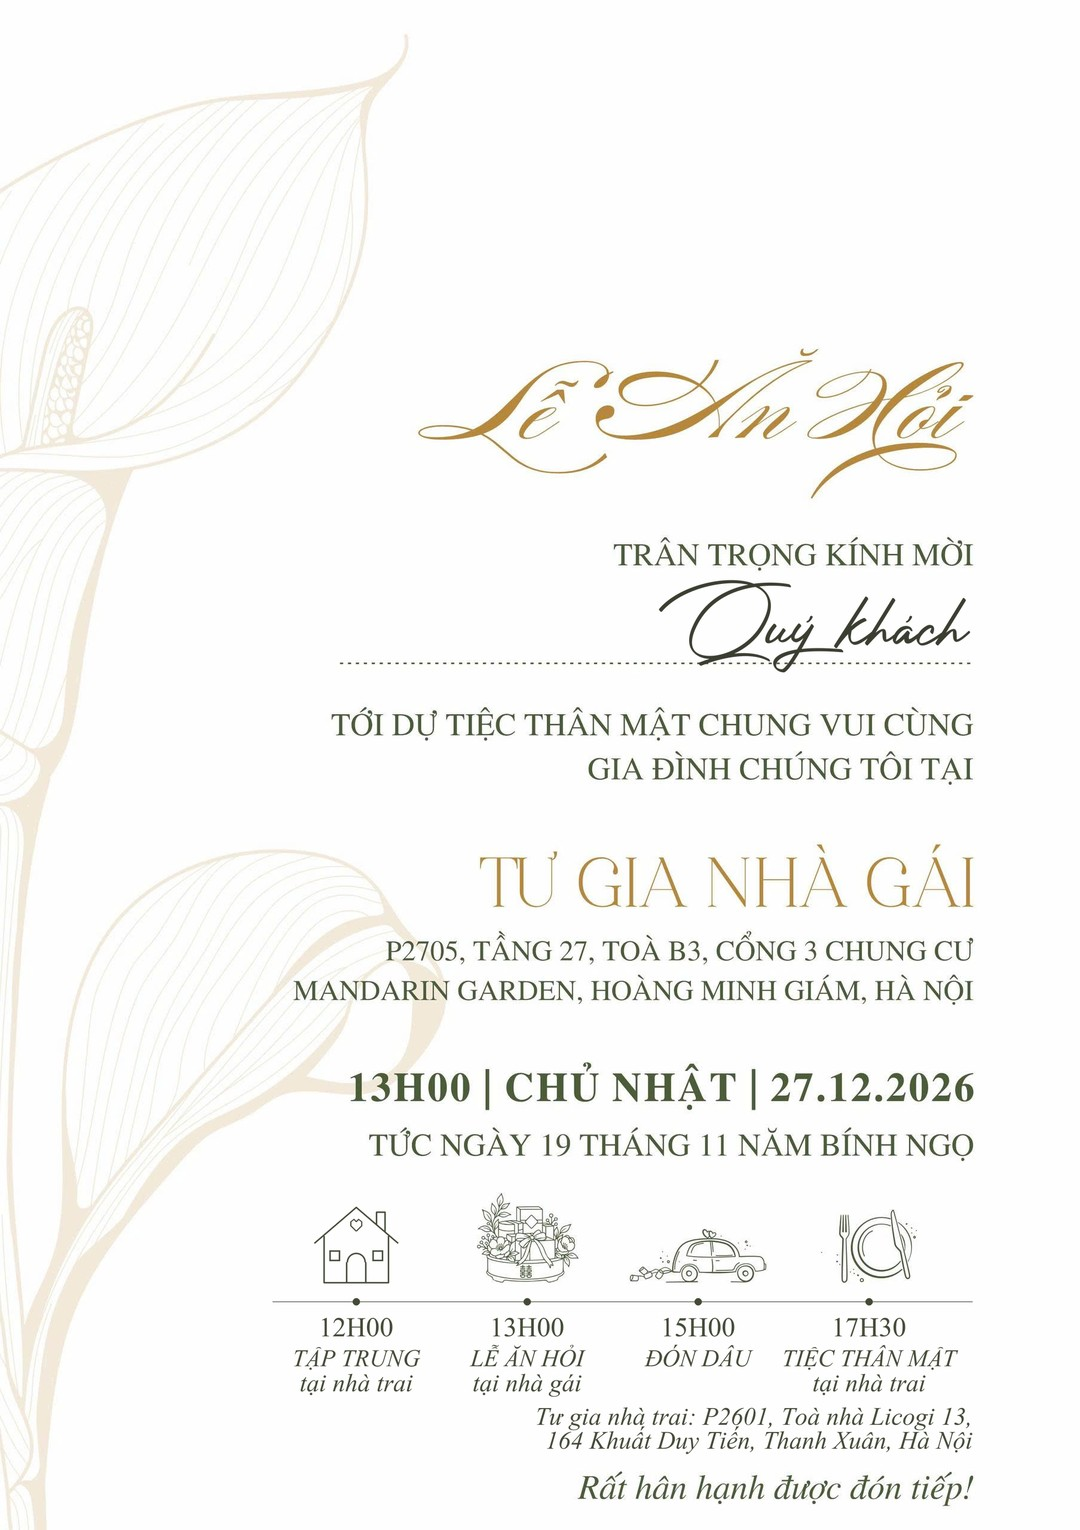
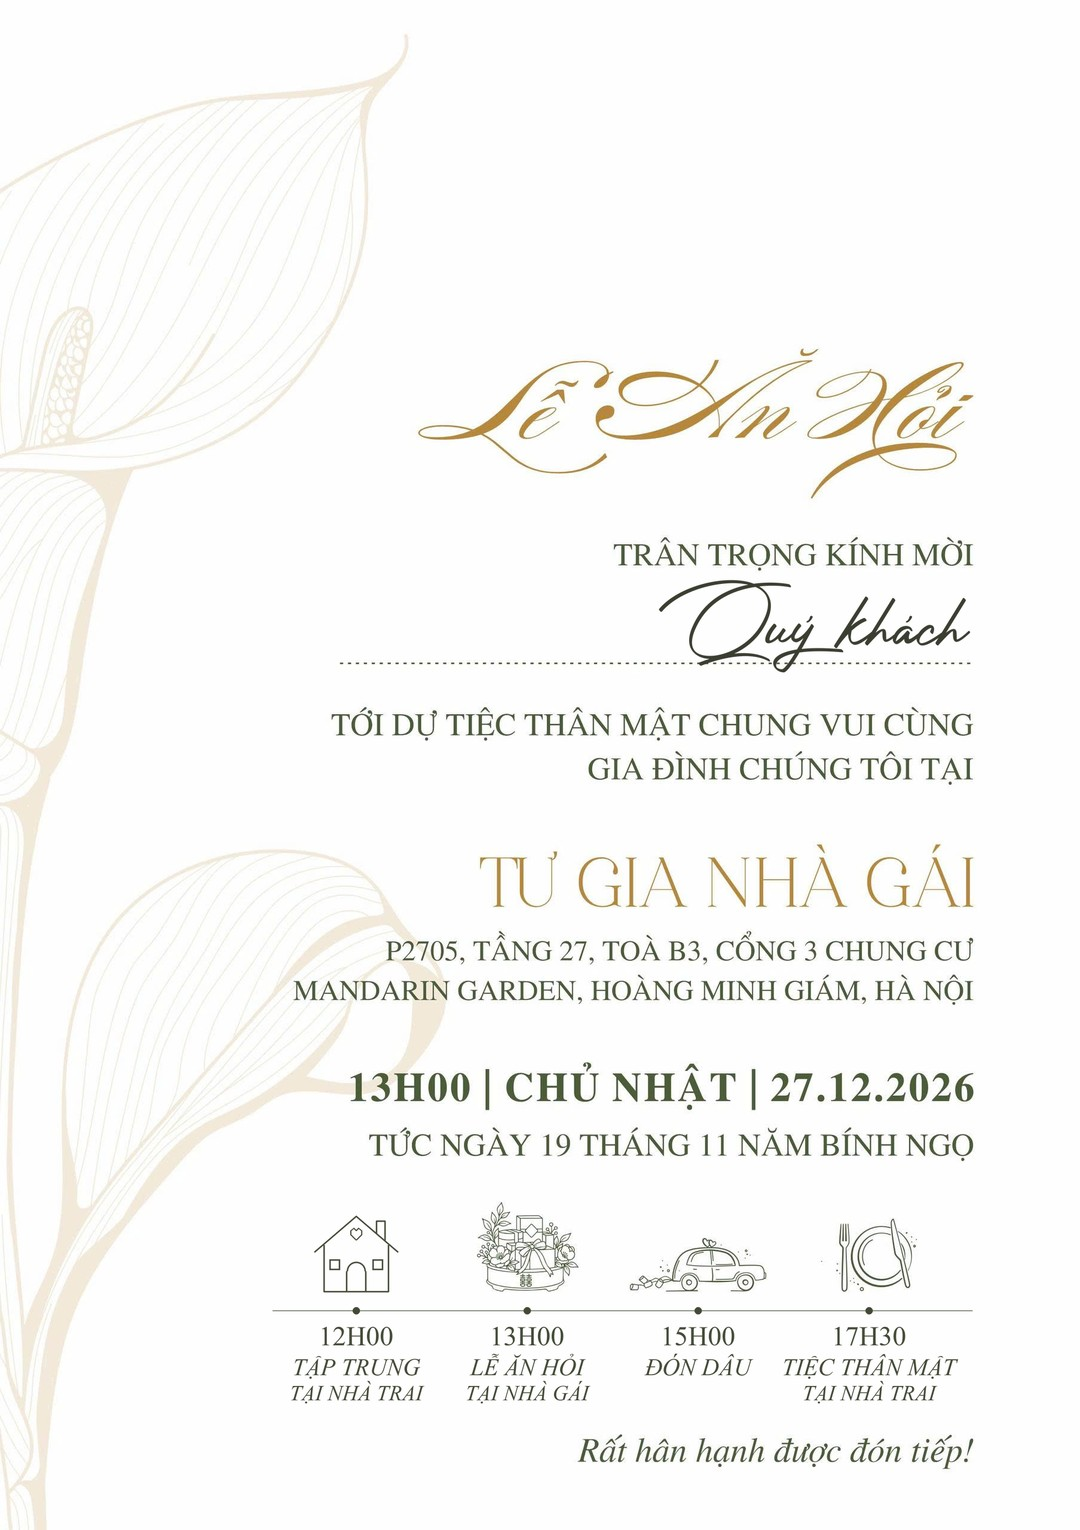
Thiệp ăn hỏi: bỏ dòng địa chỉ, chữ TẠI NHÀ TRAI viết hoa và có ô bấm nhấp nháy mở pop up địa chỉ nhà trai

Changed region(s): [[0.4278, 0.768, 0.9167, 0.983], [0.275, 0.7987, 0.3972, 0.9216]]

diff --git a/script.js b/script.js
@@ -45,6 +45,46 @@
     return d;
   }
 
+  /* ---------- Pop up địa chỉ (mở khi chạm ô bấm trên ảnh thiệp) ---------- */
+  var popDc = null, popNutMo = null;
+  function dongPopDiaChi() {
+    popDc.hidden = true;
+    document.body.classList.remove("khoa-cuon");
+    if (popNutMo) popNutMo.focus({ preventScroll: true });
+  }
+  function moPopDiaChi(o, nut) {
+    if (!popDc) {
+      popDc = document.createElement("div");
+      popDc.className = "pop-dc";
+      popDc.hidden = true;
+      popDc.setAttribute("role", "dialog");
+      popDc.setAttribute("aria-modal", "true");
+      popDc.innerHTML = '<div class="pop-the"><button type="button" class="pop-dong" aria-label="Đóng">&times;</button>' +
+        '<p class="chu-nho pop-nhan"></p><p class="pop-ten"></p><div class="pop-dia-chi"></div><p class="pop-ghi-chu"></p></div>';
+      document.body.appendChild(popDc);
+      popDc.addEventListener("click", function (e) { if (e.target === popDc) dongPopDiaChi(); });
+      popDc.querySelector(".pop-dong").addEventListener("click", dongPopDiaChi);
+      document.addEventListener("keydown", function (e) { if (!popDc.hidden && e.key === "Escape") dongPopDiaChi(); });
+    }
+    popDc.setAttribute("aria-label", o.tieuDe || "");
+    popDc.querySelector(".pop-nhan").textContent = o.nhan || "";
+    popDc.querySelector(".pop-ten").textContent = o.tieuDe || "";
+    var dc = popDc.querySelector(".pop-dia-chi");
+    dc.textContent = "";
+    (o.diaChi || []).forEach(function (dong) {
+      var p = document.createElement("p");
+      p.textContent = dong;
+      dc.appendChild(p);
+    });
+    popDc.querySelector(".pop-ghi-chu").textContent = o.ghiChu || "";
+    popNutMo = nut;
+    popDc.hidden = false;
+    document.body.classList.add("khoa-cuon");
+    popDc.querySelector(".pop-dong").focus();
+    // khách đã chạm rồi thì các ô bấm thôi nhấp nháy
+    document.querySelectorAll(".o-bam").forEach(function (b) { b.classList.add("da-bam"); });
+  }
+
   /* ---------- 1. Khung thiệp ---------- */
   var dsKhung = $("ds-khung");
   (C.thiep || []).forEach(function (src, i) {
@@ -60,8 +100,32 @@
     var img = new Image();
     img.alt = "Thiệp cưới – trang " + (i + 1);
     var lanThu = 0;
+    var oBam = (C.oBamThiep || []).filter(function (o) { return o.anh === src; });
     img.onload = function () {
-      khung.replaceChild(img, trong);
+      var hien = img;
+      if (oBam.length) {   // ảnh có ô bấm (chữ "TẠI NHÀ TRAI"): bọc ảnh lại để đặt ô bấm lên đúng chỗ
+        hien = document.createElement("div");
+        hien.className = "anh-boc";
+        hien.appendChild(img);
+        oBam.forEach(function (o) {
+          o.vung.forEach(function (v) {
+            var b = document.createElement("button");
+            b.type = "button";
+            b.className = "o-bam";
+            b.setAttribute("aria-label", (o.tieuDe || "") + " – xem địa chỉ");
+            b.style.left = v[0] + "%";
+            b.style.top = v[1] + "%";
+            b.style.width = v[2] + "%";
+            b.style.height = v[3] + "%";
+            b.addEventListener("click", function (e) {
+              e.stopPropagation();
+              moPopDiaChi(o, b);
+            });
+            hien.appendChild(b);
+          });
+        });
+      }
+      khung.replaceChild(hien, trong);
       img.addEventListener("click", function () {
         var ds = Array.prototype.map.call(dsKhung.querySelectorAll("img"), function (x) { return x.src; });
         moAnh(ds, ds.indexOf(img.src));

diff --git a/style.css b/style.css
@@ -161,6 +161,88 @@ body {
   padding: 0 24px;
 }
 
+/* Ô bấm trên ảnh thiệp (chữ "TẠI NHÀ TRAI"): viền vàng, toả sáng nhịp nhàng để khách chú ý và chạm vào */
+.anh-boc { position: relative; }
+.o-bam {
+  position: absolute;
+  margin: 0;
+  padding: 0;
+  background: rgba(201, 162, 75, .14);
+  border: 1.5px solid rgba(201, 162, 75, .9);
+  border-radius: 999px;
+  cursor: pointer;
+  -webkit-tap-highlight-color: transparent;
+  animation: o-bam-sang 1.6s ease-out infinite;
+}
+.o-bam::before {            /* nới rộng vùng chạm cho dễ bấm trên điện thoại */
+  content: "";
+  position: absolute;
+  inset: -12px -8px;
+}
+.o-bam.da-bam {
+  animation: none;
+  background: transparent;
+  border-color: rgba(201, 162, 75, .5);
+}
+.o-bam:focus-visible { outline: 2px solid var(--vang-dam); outline-offset: 3px; }
+@keyframes o-bam-sang {
+  0%   { box-shadow: 0 0 0 0 rgba(201, 162, 75, .65); background-color: rgba(201, 162, 75, .24); }
+  70%  { box-shadow: 0 0 0 11px rgba(201, 162, 75, 0); background-color: rgba(201, 162, 75, .08); }
+  100% { box-shadow: 0 0 0 0 rgba(201, 162, 75, 0); background-color: rgba(201, 162, 75, .14); }
+}
+@media (prefers-reduced-motion: reduce) { .o-bam { animation: none; } }
+
+/* Pop up địa chỉ */
+.pop-dc {
+  position: fixed;
+  inset: 0;
+  z-index: 12;
+  display: grid;
+  place-items: center;
+  padding: 20px;
+  background: rgba(38, 42, 26, .55);
+}
+.pop-dc[hidden] { display: none; }
+.pop-the {
+  position: relative;
+  width: min(100%, 360px);
+  padding: 30px 22px 24px;
+  text-align: center;
+  color: var(--reu-dam);
+  background: var(--kem);
+  border: 1px solid var(--reu-nhat);
+  box-shadow: 0 18px 40px rgba(38, 42, 26, .3);
+  animation: pop-vao .28s ease-out;
+}
+@keyframes pop-vao { from { opacity: 0; transform: translateY(10px) scale(.97); } }
+@media (prefers-reduced-motion: reduce) { .pop-the { animation: none; } }
+.pop-dong {
+  position: absolute;
+  top: 4px;
+  right: 6px;
+  width: 42px;
+  height: 42px;
+  padding: 0 0 4px;
+  border: 0;
+  background: none;
+  font: 400 32px/1 "Cormorant Garamond", serif;
+  color: var(--reu);
+  cursor: pointer;
+}
+.pop-nhan { color: var(--vang-dam); }
+.pop-ten { margin: 10px 0 6px; font-size: 27px; font-weight: 600; line-height: 1.2; }
+.pop-dia-chi p { margin: 0; font-size: 19px; line-height: 1.4; }
+.pop-ghi-chu {
+  margin: 16px auto 0;
+  max-width: 26em;
+  font-size: 17px;
+  font-style: italic;
+  line-height: 1.45;
+  color: var(--reu);
+  text-wrap: balance;
+}
+.pop-ghi-chu:empty { display: none; }
+
 /* ---------- 2. Địa điểm ---------- */
 .the {
   padding: 24px 16px 22px;

diff --git a/config.js b/config.js
@@ -40,6 +40,20 @@ window.THIEP = {
     "images/thiep/2.jpg",   // chương trình tiệc cưới (mặt trước thiệp giấy, đã bỏ mã QR và lề trống)
   ],
 
+  // 1b) Ô BẤM TRÊN ẢNH THIỆP: chữ "TẠI NHÀ TRAI" trên thiệp ăn hỏi có viền vàng nhấp nháy, chạm vào mở pop up
+  //     địa chỉ nhà trai. vung: [trái %, trên %, rộng %, cao %] trên ảnh, in ra ở cuối cong-cu/tao_thiep_phu.py
+  //     (chạy lại script thì chép lại số mới vào đây).
+  oBamThiep: [
+    {
+      anh: "images/thiep/an-hoi.jpg",
+      vung: [[25.6, 89.64, 14.92, 2.64], [73.09, 89.64, 14.92, 2.64]],
+      nhan: "Địa chỉ",
+      tieuDe: "Tư gia nhà trai",
+      diaChi: ["P2601, Toà nhà Licogi 13", "164 Khuất Duy Tiến, Thanh Xuân, Hà Nội"],
+      ghiChu: "Quý khách tập trung tại đây lúc 12H00 để cùng đoàn nhà trai sang nhà gái làm lễ ăn hỏi, sau đó trở về dự tiệc thân mật lúc 17H30.",
+    },
+  ],
+
   // 2) ĐỊA ĐIỂM
   diaDiem: {
     thoiGian: "",   // dòng giờ ngày phía trên tên khách sạn (để "" thì không hiện)

diff --git a/cong-cu/tao_thiep_phu.py b/cong-cu/tao_thiep_phu.py
@@ -2,8 +2,8 @@
 
 - viết "Quý khách" (phông chữ ký Photograph Signature, cùng kiểu mặt lời mời 1.jpg) lên dòng chấm, căn phải;
 - cho khách nhà trai: giữ mặt thiệp như bản in, đổi hàng biểu tượng thành timeline 4 mốc (12H00 tập trung tại
-  nhà trai · 13H00 lễ ăn hỏi tại nhà gái · 15H00 đón dâu · 17H30 tiệc thân mật tại nhà trai) và thêm một dòng
-  địa chỉ nhà trai. (Bản đổi hẳn "TƯ GIA NHÀ TRAI" trên mặt thiệp vẫn còn trong script: DOI_NOI_TIEC.)
+  nhà trai · 13H00 lễ ăn hỏi tại nhà gái · 15H00 đón dâu · 17H30 tiệc thân mật tại nhà trai). Chữ "TẠI NHÀ TRAI"
+  trên trang web có ô bấm mở pop up địa chỉ nhà trai (vị trí ô in ra cuối script, chép vào config.js). (Bản đổi hẳn "TƯ GIA NHÀ TRAI" trên mặt thiệp vẫn còn trong script: DOI_NOI_TIEC.)
 (Bản có vows: các mốc lễ vows gộp vào tờ chương trình, xem cong-cu/tao_chuong_trinh_doc.py nếu có.)
 
 Phông cần trên máy (không đưa lên GitHub): phong-chu/PhotographSignature.otf, phong-chu/noto-serif-display/;
@@ -206,9 +206,10 @@ def ve_nha(rong=150):
 
 
 TAM = [596, 882, 1168, 1454]                 # tâm 4 cột, cột cuối giữ đúng chỗ cũ (lề phải chữ TIỆC THÂN MẬT)
-DAY_BT, Y_KE = 2145, 2178                    # chân các biểu tượng, hàng đường kẻ
-MOC = [("12H00", "TẬP TRUNG", "tại nhà trai", None), ("13H00", "LỄ ĂN HỎI", "tại nhà gái", "trap"),
-       ("15H00", "ĐÓN DÂU", "", "xe"), ("17H30", "TIỆC THÂN MẬT", "tại nhà trai", "dia")]
+DAY_BT, Y_KE = 2160, 2193                    # chân các biểu tượng, hàng đường kẻ
+MOC = [("12H00", "TẬP TRUNG", "TẠI NHÀ TRAI", None), ("13H00", "LỄ ĂN HỎI", "TẠI NHÀ GÁI", "trap"),
+       ("15H00", "ĐÓN DÂU", "", "xe"), ("17H30", "TIỆC THÂN MẬT", "TẠI NHÀ TRAI", "dia")]
+O_BAM = []                                   # vùng chữ "TẠI NHÀ TRAI" (tỉ lệ % trên ảnh) để trang web đặt ô bấm mở địa chỉ
 nha = ve_nha()
 for x, (gio, ten, noi, k_bt) in zip(TAM, MOC):
     if k_bt:
@@ -219,23 +220,21 @@ for x, (gio, ten, noi, k_bt) in zip(TAM, MOC):
     viet(gio, phong(TIMES, co_gio), x, Y_KE + 58, neo="ms")
     viet(ten, phong(TIMES_NGHIENG, co_nhan * .86), x, Y_KE + 108, neo="ms")
     if noi:
-        viet(noi, phong(TIMES_NGHIENG, co_gio * .92), x, Y_KE + 150, neo="ms")
+        f_noi = phong(TIMES_NGHIENG, co_gio * .8)
+        viet(noi, f_noi, x, Y_KE + 150, neo="ms")
+        if noi == "TẠI NHÀ TRAI":
+            l, t, r, b = f_noi.getbbox(noi, anchor="ms")
+            x0, y0, x1, y1 = x + l / K - 22, Y_KE + 150 + t / K - 16, x + r / K + 22, Y_KE + 150 + b / K + 14
+            W, H = an_hoi.size
+            O_BAM.append([round(100 * x0 / W, 2), round(100 * y0 / H, 2), round(100 * (x1 - x0) / W, 2), round(100 * (y1 - y0) / H, 2)])
 ve = ImageDraw.Draw(lop_moi[MAU_XANH])
 ve.line([((TAM[0] - 140) * K, Y_KE * K), (LE_PHAI * K, Y_KE * K)], fill=170, width=round(1.6 * K))
 for x in TAM:
     ve.ellipse([(x - 6) * K, (Y_KE - 6) * K, (x + 6) * K, (Y_KE + 6) * K], fill=255)
-
-# e) địa chỉ nhà trai: một dòng nghiêng dưới timeline; dời "Rất hân hạnh được đón tiếp!" xuống cho có chỗ
-VUNG_CAM_ON, XUONG = (900, 2385, 1660, 2475), 62
-dong = an_hoi.crop(VUNG_CAM_ON)
-an_hoi.paste(Image.new("RGB", dong.size, nen_trang), VUNG_CAM_ON[:2])
-an_hoi.paste(dong, (VUNG_CAM_ON[0], VUNG_CAM_ON[1] + XUONG))
-f_dc = phong(TIMES_NGHIENG, co_gio * .92)
-viet("Tư gia nhà trai: P2601, Toà nhà Licogi 13,", f_dc, LE_PHAI, 2384)
-viet("164 Khuất Duy Tiến, Thanh Xuân, Hà Nội", f_dc, LE_PHAI, 2424)
 
 for mau, lop_m in lop_moi.items():
     an_hoi = Image.composite(Image.new("RGB", an_hoi.size, mau), an_hoi, lop_m.resize(an_hoi.size, Image.LANCZOS))
 
 thu_nho(an_hoi).save(ra / "an-hoi.jpg", quality=90, optimize=True)
 print("Đã ghi images/thiep/an-hoi.jpg")
+print("Ô bấm TẠI NHÀ TRAI (trái %, trên %, rộng %, cao %) cho config.js:", O_BAM)
